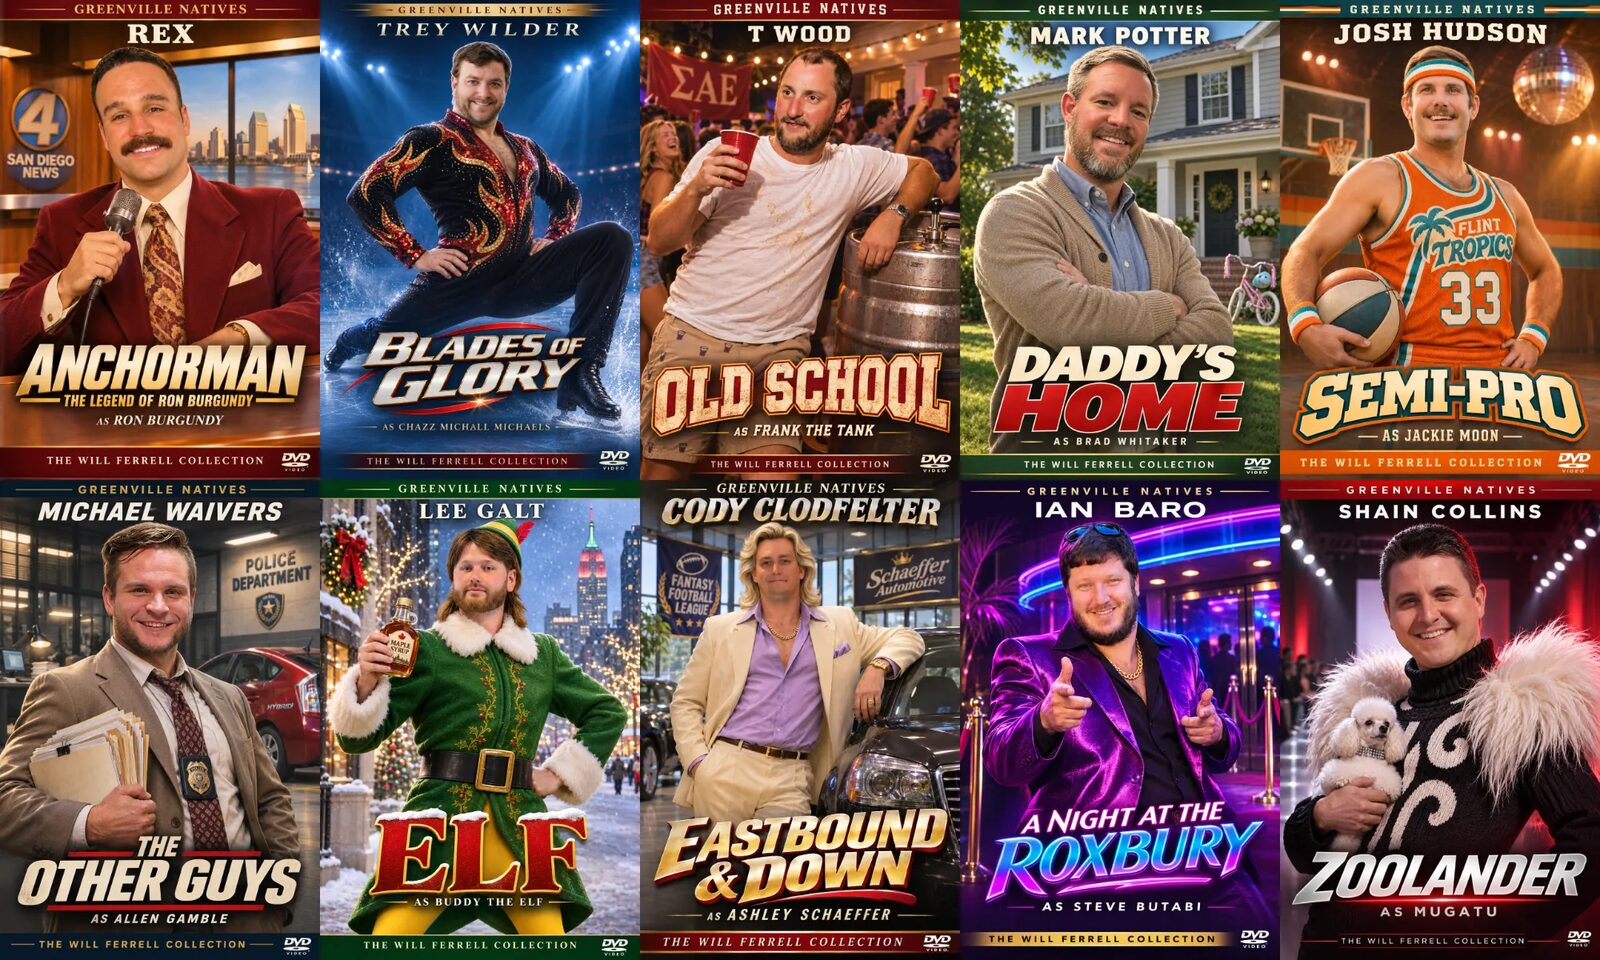
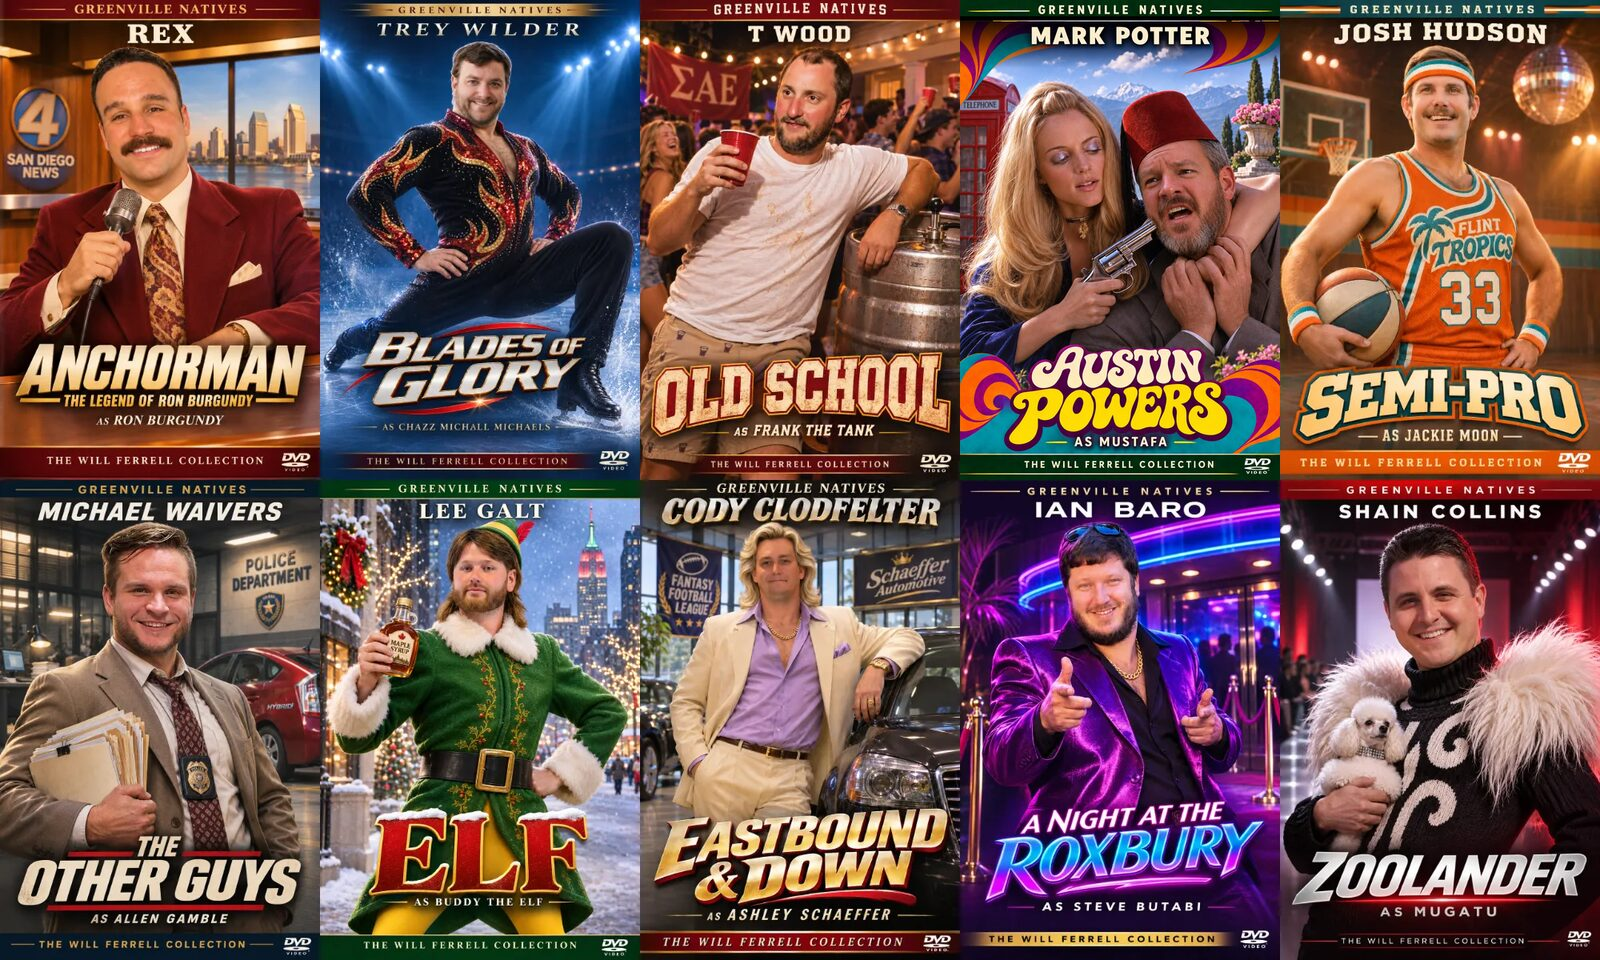
Week 9: recast Potter as Mustafa (#32)
* Week 9: recast Potter as Mustafa

Replaces the Brad Whitaker / Daddy's Home entry with the Mustafa / Austin
Powers one Trey supplied: new character, film and year, and four new body
paragraphs in place of the old five.

The Week 10 card's cast line follows the recast, since it is a character
label. Its blurb still names Brad Whitaker and is left alone, being Trey's
copy to rewrite.

Potter's DVD cover is the new Austin Powers art. It arrived full size, so
it is kept at 600x900 rather than the 400x600 the contact-sheet slices give,
which is exactly 2x the 300px slot.

Claude-Session: https://claude.ai/code/session_01VmCTUN2fTg16nk1rWDscBf

* Week 9: put Potter's new cover in the header, and lift its nameplate

Composites the Austin Powers art into row 1, column 4 of the header sheet,
replacing the Daddy's Home tile, and rebuilds the 1600x960 header from the
full-size 2000x1200 sheet rather than the already-downscaled JPEG.

"MARK POTTER" was cream lettering over pale sky, the only nameplate of the
ten not sitting on a dark band. A gradient in the cover's own header green
now darkens the sky behind it, masked to the lettering so the letters keep
their original brightness and the swirls keep their colour. Both the header
tile and the entry poster come from the same corrected master.

Claude-Session: https://claude.ai/code/session_01VmCTUN2fTg16nk1rWDscBf

---------

Changed region(s): [[0.5938, 0.0, 0.8125, 0.5]]

diff --git a/GN-site/writeups/week9-2026-will-ferrell-cinematic-universe.html b/GN-site/writeups/week9-2026-will-ferrell-cinematic-universe.html
@@ -187,7 +187,7 @@ h3 .mgr{font-size:.82em;vertical-align:.06em;}
 </section>
 <section aria-labelledby="rankings">
   <h2 id="rankings">Power rankings: the casting call<small>Ten managers, ten Will Ferrell characters, ranked by power score after Week 9.</small></h2>
-  <div class="scroll"><table class="tbl zt"><thead><tr><th>#</th><th>Manager</th><th>Character</th><th>Move</th><th>Power score</th><th>Change</th><th>Record</th><th>PF</th><th>Power record</th></tr></thead><tbody><tr><td>1</td><td><span class="mgr mgr-hardee">Rex</span></td><td>Ron Burgundy</td><td>–</td><td>89.8</td><td>+1.00</td><td>8–1</td><td>1,245.0</td><td>68–13</td></tr><tr><td>2</td><td><span class="mgr mgr-wilder">Trey Wilder</span></td><td>Chazz Michael Michaels</td><td><span class="up">▲ 1</span></td><td>80.2</td><td>+0.57</td><td>8–1</td><td>1,005.0</td><td>46–35</td></tr><tr><td>3</td><td><span class="mgr mgr-wood">T Wood</span></td><td>Frank the Tank</td><td><span class="dn">▼ 1</span></td><td>76.7</td><td>−3.36</td><td>6–3</td><td>1,023.3</td><td>43–38</td></tr><tr><td>4</td><td><span class="mgr mgr-potter">Mark Potter</span></td><td>Brad Whitaker</td><td>–</td><td>74.8</td><td>−2.80</td><td>5–4</td><td>1,106.1</td><td>53–28</td></tr><tr><td>5</td><td><span class="mgr mgr-hudson">Josh Hudson</span></td><td>Jackie Moon</td><td>–</td><td>63.3</td><td>+2.79</td><td>4–5</td><td>935.9</td><td>36–45</td></tr><tr><td>6</td><td><span class="mgr mgr-waivers">Michael Waivers</span></td><td>Allen Gamble</td><td>–</td><td>62.4</td><td>+2.79</td><td>4–5</td><td>1,012.4</td><td>50–31</td></tr><tr><td>7</td><td><span class="mgr mgr-galt">Lee Galt</span></td><td>Buddy the Elf</td><td>–</td><td>56.3</td><td>+3.37</td><td>3–6</td><td>912.9</td><td>35–46</td></tr><tr><td>8</td><td><span class="mgr mgr-clod">Cody Clodfelter</span></td><td>Ashley Schaeffer</td><td>–</td><td>51.0</td><td>−1.68</td><td>3–6</td><td>851.8</td><td>29–52</td></tr><tr><td>9</td><td><span class="mgr mgr-baro">Ian Baro</span></td><td>Steve Butabi</td><td>–</td><td>48.1</td><td>−4.15</td><td>3–6</td><td>824.2</td><td>25–56</td></tr><tr><td>10</td><td><span class="mgr mgr-collins">Shain Collins</span></td><td>Mugatu</td><td>–</td><td>40.3</td><td>−0.55</td><td>1–8</td><td>826.9</td><td>20–61</td></tr></tbody></table></div>
+  <div class="scroll"><table class="tbl zt"><thead><tr><th>#</th><th>Manager</th><th>Character</th><th>Move</th><th>Power score</th><th>Change</th><th>Record</th><th>PF</th><th>Power record</th></tr></thead><tbody><tr><td>1</td><td><span class="mgr mgr-hardee">Rex</span></td><td>Ron Burgundy</td><td>–</td><td>89.8</td><td>+1.00</td><td>8–1</td><td>1,245.0</td><td>68–13</td></tr><tr><td>2</td><td><span class="mgr mgr-wilder">Trey Wilder</span></td><td>Chazz Michael Michaels</td><td><span class="up">▲ 1</span></td><td>80.2</td><td>+0.57</td><td>8–1</td><td>1,005.0</td><td>46–35</td></tr><tr><td>3</td><td><span class="mgr mgr-wood">T Wood</span></td><td>Frank the Tank</td><td><span class="dn">▼ 1</span></td><td>76.7</td><td>−3.36</td><td>6–3</td><td>1,023.3</td><td>43–38</td></tr><tr><td>4</td><td><span class="mgr mgr-potter">Mark Potter</span></td><td>Mustafa</td><td>–</td><td>74.8</td><td>−2.80</td><td>5–4</td><td>1,106.1</td><td>53–28</td></tr><tr><td>5</td><td><span class="mgr mgr-hudson">Josh Hudson</span></td><td>Jackie Moon</td><td>–</td><td>63.3</td><td>+2.79</td><td>4–5</td><td>935.9</td><td>36–45</td></tr><tr><td>6</td><td><span class="mgr mgr-waivers">Michael Waivers</span></td><td>Allen Gamble</td><td>–</td><td>62.4</td><td>+2.79</td><td>4–5</td><td>1,012.4</td><td>50–31</td></tr><tr><td>7</td><td><span class="mgr mgr-galt">Lee Galt</span></td><td>Buddy the Elf</td><td>–</td><td>56.3</td><td>+3.37</td><td>3–6</td><td>912.9</td><td>35–46</td></tr><tr><td>8</td><td><span class="mgr mgr-clod">Cody Clodfelter</span></td><td>Ashley Schaeffer</td><td>–</td><td>51.0</td><td>−1.68</td><td>3–6</td><td>851.8</td><td>29–52</td></tr><tr><td>9</td><td><span class="mgr mgr-baro">Ian Baro</span></td><td>Steve Butabi</td><td>–</td><td>48.1</td><td>−4.15</td><td>3–6</td><td>824.2</td><td>25–56</td></tr><tr><td>10</td><td><span class="mgr mgr-collins">Shain Collins</span></td><td>Mugatu</td><td>–</td><td>40.3</td><td>−0.55</td><td>1–8</td><td>826.9</td><td>20–61</td></tr></tbody></table></div>
   <p class="note">Power score after Week 9. Move is the change in rank from Week 8.</p>
   <article class="entry">
     <figure class="poster"><img src="img/week9-2026-will-ferrell-cinematic-universe/dvd/hardee.jpg" alt="DVD cover: Rex as Ron Burgundy in Anchorman: The Legend of Ron Burgundy" width="400" height="600" loading="lazy" decoding="async" onerror="this.onerror=null;this.src='img/managers/hardee.webp'"></figure>
@@ -227,16 +227,15 @@ h3 .mgr{font-size:.82em;vertical-align:.06em;}
     <p>The Taylor Bowl is next, and Rex isn’t only coming for the win. He’s coming for the record and the title of best Taylor. Losing a fantasy matchup is one thing. Losing your fucking identity is another.</p>
   </article>
   <article class="entry">
-    <figure class="poster"><img src="img/week9-2026-will-ferrell-cinematic-universe/dvd/potter.jpg" alt="DVD cover: Mark Potter as Brad Whitaker in Daddy&#x27;s Home" width="400" height="600" loading="lazy" decoding="async" onerror="this.onerror=null;this.src='img/managers/potter.webp'"></figure>
+    <figure class="poster"><img src="img/week9-2026-will-ferrell-cinematic-universe/dvd/potter.jpg" alt="DVD cover: Mark Potter as Mustafa in Austin Powers: The Spy Who Shagged Me" width="400" height="600" loading="lazy" decoding="async" onerror="this.onerror=null;this.src='img/managers/potter.webp'"></figure>
     <div class="hd"><div class="rk">4</div>
-      <div><p class="champ">Brad Whitaker</p><h3><span class="mgr mgr-potter">Mark Potter</span></h3><p class="team"><em>Daddy&#x27;s Home</em> (2015)</p></div>
+      <div><p class="champ">Mustafa</p><h3><span class="mgr mgr-potter">Mark Potter</span></h3><p class="team"><em>Austin Powers: The Spy Who Shagged Me</em> (1999)</p></div>
     </div>
     <dl class="chy"><div><dt>Record</dt><dd>5–4</dd></div><div><dt>Power score</dt><dd>74.8</dd></div><div><dt>Points for</dt><dd>1,106.1</dd></div><div><dt>Points against</dt><dd>1,061.9</dd></div><div><dt>Power record</dt><dd>53–28</dd></div><div><dt>Avg score</dt><dd>122.9</dd></div></dl>
-    <p>Brad Whitaker did everything a good stepfather was supposed to do. He provided for the family, showed up every day, and genuinely cared about the kids. Unfortunately, Mark Wahlberg kept showing up on a motorcycle, taking his shirt off, and making Brad look like a complete asshole without lifting a finger.</p>
-    <p>Potter has spent nine weeks playing the role of Brad, assembling one of the best teams in the league while everybody else somehow gets the glory. <span class="ph" aria-hidden="true">JB<img loading="lazy" alt="" referrerpolicy="no-referrer" onerror="if(this.dataset.alt){this.src=this.dataset.alt;this.removeAttribute('data-alt')}else{this.remove()}" data-alt="/statmuse/img/nfl/players/cincinnati-bengals-joe-burrow-min--hedgxbuk.png" src="https://a.espncdn.com/i/headshots/nfl/players/full/3915511.png"></span>Joe Burrow threw for 271 yards and three touchdowns, <span class="ph" aria-hidden="true">BI<img loading="lazy" alt="" referrerpolicy="no-referrer" onerror="if(this.dataset.alt){this.src=this.dataset.alt;this.removeAttribute('data-alt')}else{this.remove()}" data-alt="/statmuse/img/nfl/players/tampa-bay-buccaneers-bucky-irving--0yt7ucg3.png" src="https://a.espncdn.com/i/headshots/nfl/players/full/4596448.png"></span>Bucky Irving scored twice, and <span class="ph" aria-hidden="true">PN<img loading="lazy" alt="" referrerpolicy="no-referrer" onerror="if(this.dataset.alt){this.src=this.dataset.alt;this.removeAttribute('data-alt')}else{this.remove()}" data-alt="/statmuse/img/nfl/players/los-angeles-rams-puka-nacua-copy-min--x1stw0ms.png" src="https://a.espncdn.com/i/headshots/nfl/players/full/4426515.png"></span>Puka Nacua caught 14 passes for 150 yards and a touchdown. Potter produced another excellent offensive performance and still walked away with absolutely nothing.</p>
-    <p>His 53-28 power record is the second-best in the league, yet he’s sitting at 5-4 because opponents have scored an absurd 1,061.9 points against him. That’s the most anyone has faced this season. If Brad Whitaker had Potter’s luck, he’d spend three months building the perfect treehouse only for Mark Wahlberg to arrive, casually do a backflip off the roof, and have the children immediately declare him their new favorite parent.</p>
-    <p>Now the situation is getting worse. Nacua suffered knee ligament sprains and turf toe on the Rams’ final offensive play and could miss several weeks, while <span class="ph" aria-hidden="true">RS<img loading="lazy" alt="" referrerpolicy="no-referrer" onerror="this.remove()" src="/statmuse/img/nfl/players/new-england-patriots-rhamondre-stevenson-min--mezekg0d.png"></span>Rhamondre Stevenson is also dealing with a knee injury. Potter is facing the possibility of losing important pieces of his offense just as the championship playoff race becomes serious.</p>
-    <p>Brad eventually earned his family’s respect, but Potter’s next opponent is E, a team averaging just 91.6 points. Beating E would be the fantasy equivalent of Brad finally getting his stepchildren to call him Dad. It’s nice, but nobody’s throwing you a fucking parade.</p>
+    <p>Of all the characters Will Ferrell has played, nobody has taken more undeserved punishment than Mustafa. The poor bastard survives being burned alive, shot, and thrown off a cliff. Potter has apparently been cast in the same role this season, except instead of Dr. Evil trying to kill him, it’s the Greenville Natives schedule.</p>
+    <p>Potter scored 143.5 points in Week 9, with <span class="ph" aria-hidden="true">JB<img loading="lazy" alt="" referrerpolicy="no-referrer" onerror="if(this.dataset.alt){this.src=this.dataset.alt;this.removeAttribute('data-alt')}else{this.remove()}" data-alt="/statmuse/img/nfl/players/cincinnati-bengals-joe-burrow-min--hedgxbuk.png" src="https://a.espncdn.com/i/headshots/nfl/players/full/3915511.png"></span>Joe Burrow throwing three touchdowns, <span class="ph" aria-hidden="true">BI<img loading="lazy" alt="" referrerpolicy="no-referrer" onerror="if(this.dataset.alt){this.src=this.dataset.alt;this.removeAttribute('data-alt')}else{this.remove()}" data-alt="/statmuse/img/nfl/players/tampa-bay-buccaneers-bucky-irving--0yt7ucg3.png" src="https://a.espncdn.com/i/headshots/nfl/players/full/4596448.png"></span>Bucky Irving scoring twice, and <span class="ph" aria-hidden="true">PN<img loading="lazy" alt="" referrerpolicy="no-referrer" onerror="if(this.dataset.alt){this.src=this.dataset.alt;this.removeAttribute('data-alt')}else{this.remove()}" data-alt="/statmuse/img/nfl/players/los-angeles-rams-puka-nacua-copy-min--x1stw0ms.png" src="https://a.espncdn.com/i/headshots/nfl/players/full/4426515.png"></span>Puka Nacua hauling in 14 catches for 150 yards and a touchdown. Any other opponent would’ve been a win, but he drew Rex’s 172.5-point explosion instead. Potter now has the league’s second-best power record at 53-28, yet somehow sits at 5-4 after surrendering a league-high 1,061.9 points. The man is getting his ass kicked while doing almost everything right.</p>
+    <p>And just when Potter thought things couldn’t get worse, somebody went and threw Puka Nacua off a fucking cliff. What sounded like Mustafa screaming about his broken legs was actually Potter receiving the news that Nacua had suffered knee ligament sprains and turf toe. <span class="ph" aria-hidden="true">RS<img loading="lazy" alt="" referrerpolicy="no-referrer" onerror="this.remove()" src="/statmuse/img/nfl/players/new-england-patriots-rhamondre-stevenson-min--mezekg0d.png"></span>Rhamondre Stevenson is dealing with a knee injury of his own, so now Potter’s entire training room sounds like Mustafa trying to stand up at the bottom of that cliff. Every time somebody announces they’re going to be fine, there’s another sickening crack followed by a fresh round of screaming.</p>
+    <p>Potter gets E in Week 10, a team averaging just 91.6 points, which should finally give him an opportunity to recover. But considering the way his season has gone, somebody should probably check the bottom of that cliff before kickoff. There’s a good chance Potter’s still down there asking for a Band-Aid, some antibacterial cream, and somebody to call a fucking ambulance. Hopefully Ian doesn’t come along and ask Potter to give him a win three times, because we all know Mustafa can’t survive being asked the same question three times.</p>
   </article>
   <article class="entry">
     <figure class="poster"><img src="img/week9-2026-will-ferrell-cinematic-universe/dvd/hudson.jpg" alt="DVD cover: Josh Hudson as Jackie Moon in Semi-Pro" width="400" height="600" loading="lazy" decoding="async" onerror="this.onerror=null;this.src='img/managers/hudson.webp'"></figure>
@@ -356,7 +355,7 @@ h3 .mgr{font-size:.82em;vertical-align:.06em;}
   <article class="mu">
     <p class="mu-label">Potter (5-4) vs. E (3-6)</p>
     <div class="mu-hd"><div><h3><span class="mgr mgr-potter">Mark Potter</span></h3><p>5–4 &middot; PF 1,106.1 &middot; PA 1,061.9</p></div><span class="vs">VS</span><div class="rt"><h3><span class="mgr mgr-baro">Ian Baro</span></h3><p>3–6 &middot; PF 824.2 &middot; PA 999.5</p></div></div>
-    <p class="mu-cast">Brad Whitaker vs. Steve Butabi</p>
+    <p class="mu-cast">Mustafa vs. Steve Butabi</p>
     <div class="mu-blurb"><p>Potter has the league’s second-best power record but only five actual wins, while E has scored fewer points than anybody else. E still leads the all-time series 11-9, but Potter has won four straight against him.</p>
     <p>Brad Whitaker has finally found somebody less impressive than Mark Wahlberg, and if he can’t beat Steve Butabi, he might as well surrender custody of the fucking children.</p></div>
     <div class="mu-sec"><p class="lbl">Head-to-head &middot; the history</p><div class="r"><span>(9–11)</span><b>Overall Record</b><span>(11–9)</span></div><div class="r"><span>(8–9)</span><b>Regular Season Record</b><span>(9–8)</span></div><div class="r"><span>(1–2)</span><b>Playoff Record</b><span>(2–1)</span></div><div class="r"><span>2,545.7</span><b>H2H Points Scored</b><span>2,590.9</span></div><div class="r"><span>127.3</span><b>H2H PPG</b><span>129.5</span></div><div class="r"><span>112.1</span><b>H2H PPG (Regular Season)</b><span>113.3</span></div><div class="r"><span>−45.2</span><b>Point Differential</b><span>+45.2</span></div><div class="r"><span>4</span><b>Current Win Streak</b><span>0</span></div><div class="r"><span>4</span><b>Longest Win Streak</b><span>8</span></div><div class="r"><span>46.1</span><b>Biggest Win Margin</b><span>45.4</span></div></div>
